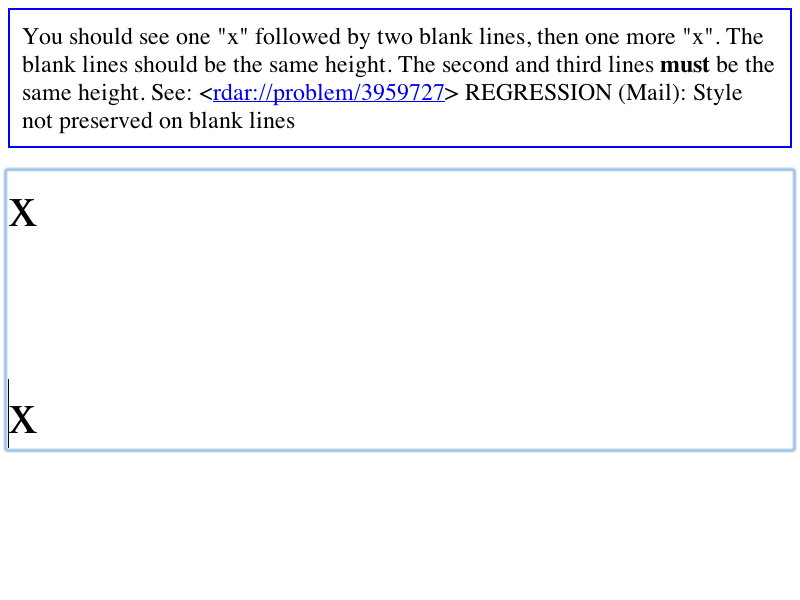
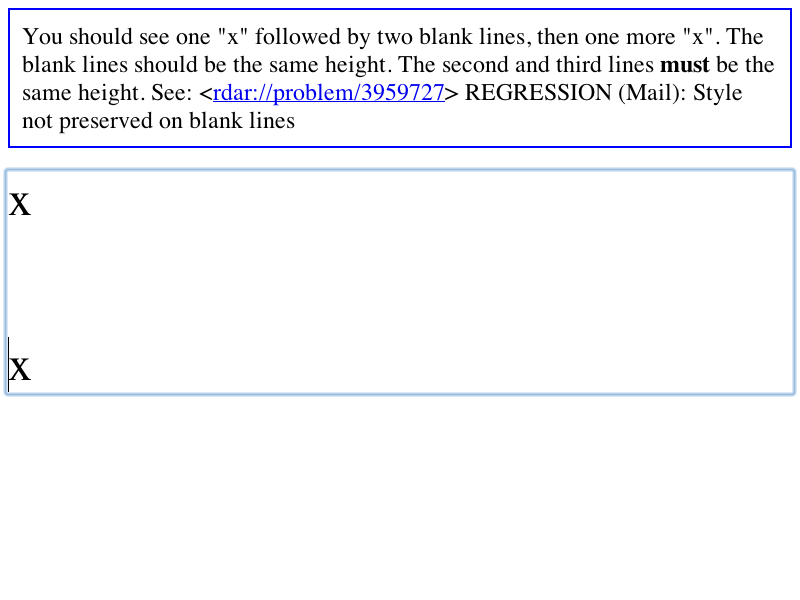
LayoutTests:
Reviewed by hyatt

        <rdar://problem/4875425>
        EBay, GMail, and GoogleDocs RTEs font size popups don't work

        Added to test changes:
        * editing/style/fontsize-1-expected.checksum: Added.
        * editing/style/fontsize-1-expected.png: Added.
        * editing/style/fontsize-1-expected.txt: Added.
        * editing/style/fontsize-1.html: Added.

        Removed use of "px" and "pt" values passed to
        execCommand("FontSize", ...) (other browsers don't
        support them):
        * editing/input/attributed-substring-from-range-lines.html-disabled:
        * editing/style/block-style-004-expected.checksum:
        * editing/style/block-style-004-expected.png:
        * editing/style/block-style-004-expected.txt:
        * editing/style/block-style-004.html:
        * editing/style/block-style-005-expected.checksum:
        * editing/style/block-style-005-expected.png:
        * editing/style/block-style-005-expected.txt:
        * editing/style/block-style-005.html:
        * editing/style/block-style-006-expected.checksum:
        * editing/style/block-style-006-expected.png:
        * editing/style/block-style-006-expected.txt:
        * editing/style/block-style-006.html:

WebCore:

        Reviewed by hyatt

        <rdar://problem/4875425>
        EBay, GMail, and GoogleDocs RTEs font size popups don't work

        Changed execCommand("FontSize", ...) to match the spec
        and the behavior of other browsers.  It expects a number,
[…]

Changed region(s): [[0.0, 0.57, 1.0, 0.78], [0.0, 0.3, 0.0625, 0.39]]

diff --git a/LayoutTests/editing/style/fontsize-1.html b/LayoutTests/editing/style/fontsize-1.html
@@ -1,0 +1,35 @@
+<p>This test execCommand("FontSize", ...).  You should see 'small' 'medium' and 'large' below in every increasing font sizes.</p>
+<div id="div" contenteditable="true"></div>
+<ul id="console"></ul>
+
+<script>
+function log(str) {
+    var li = document.createElement("li");
+    li.appendChild(document.createTextNode(str));
+    var console = document.getElementById("console");
+    console.appendChild(li);
+}
+
+var div = document.getElementById("div");
+var sel = window.getSelection();
+
+sel.setPosition(div, 0);
+
+if (document.execCommand("FontSize", false, "pasd"))
+    log("Failure: execCommand('FontSize', [Illegal value]) should fail.");
+
+if (!document.execCommand("FontSize", false, "2"))
+    log("Failure: execCommand('FontSize', [Legal value]) failed.");
+
+document.execCommand("InsertText", false, "small");    
+
+if (!document.execCommand("FontSize", false, "4"))
+    log("Failure: execCommand('FontSize', [Legal value]) failed.");
+
+document.execCommand("InsertText", false, "medium");
+
+if (!document.execCommand("FontSize", false, "6"))
+    log("Failure: execCommand('FontSize', [Legal value]) failed.");
+
+document.execCommand("InsertText", false, "large");
+</script>

diff --git a/LayoutTests/editing/style/block-style-006.html b/LayoutTests/editing/style/block-style-006.html
@@ -23,7 +23,7 @@ function editingTest() {
     typeCharacterCommand();
     for (i = 0; i < 3; i++)
         extendSelectionBackwardByLineCommand();
-    fontSizeCommand("60px");
+    fontSizeCommand("7");
     for (i = 0; i < 3; i++)
         moveSelectionForwardByLineCommand();
     moveSelectionBackwardByCharacterCommand();

diff --git a/LayoutTests/editing/style/block-style-004.html b/LayoutTests/editing/style/block-style-004.html
@@ -23,7 +23,7 @@ function editingTest() {
     typeCharacterCommand();
     for (i = 0; i < 3; i++)
         extendSelectionBackwardByLineCommand();
-    fontSizeCommand("60px");
+    fontSizeCommand("7");
     moveSelectionBackwardByCharacterCommand();
     moveSelectionForwardByLineCommand();
     insertParagraphCommand();

diff --git a/LayoutTests/editing/style/block-style-005.html b/LayoutTests/editing/style/block-style-005.html
@@ -23,7 +23,7 @@ function editingTest() {
     typeCharacterCommand();
     for (i = 0; i < 3; i++)
         extendSelectionBackwardByLineCommand();
-    fontSizeCommand("60px");
+    fontSizeCommand("7");
     for (i = 0; i < 3; i++)
         moveSelectionForwardByLineCommand();
     deleteCommand();

diff --git a/WebCore/html/HTMLFontElement.cpp b/WebCore/html/HTMLFontElement.cpp
@@ -102,28 +102,44 @@ bool HTMLFontElement::mapToEntry(const QualifiedName& attrName, MappedAttributeE
     return HTMLElement::mapToEntry(attrName, result);
 }
 
+bool HTMLFontElement::cssValueFromFontSizeNumber(const String& s, int& size)
+{
+    int num;
+    if (!parseFontSizeNumber(s, num))
+        return false;
+        
+    switch (num) {
+        case 2: 
+            size = CSS_VAL_SMALL; 
+            break;
+        case 0: // treat 0 the same as 3, because people expect it to be between -1 and +1
+        case 3: 
+            size = CSS_VAL_MEDIUM; 
+            break;
+        case 4: 
+            size = CSS_VAL_LARGE; 
+            break;
+        case 5: 
+            size = CSS_VAL_X_LARGE; 
+            break;
+        case 6: 
+            size = CSS_VAL_XX_LARGE; 
+            break;
+        default:
+            if (num > 6)
+                size = CSS_VAL__WEBKIT_XXX_LARGE;
+            else
+                size = CSS_VAL_X_SMALL;
+    }
+    return true;
+}
+
 void HTMLFontElement::parseMappedAttribute(MappedAttribute *attr)
 {
     if (attr->name() == sizeAttr) {
-        int num;
-        if (parseFontSizeNumber(attr->value(), num)) {
-            int size;
-            switch (num)
-            {
-            case 2: size = CSS_VAL_SMALL; break;
-            case 0: // treat 0 the same as 3, because people expect it to be between -1 and +1
-            case 3: size = CSS_VAL_MEDIUM; break;
-            case 4: size = CSS_VAL_LARGE; break;
-            case 5: size = CSS_VAL_X_LARGE; break;
-            case 6: size = CSS_VAL_XX_LARGE; break;
-            default:
-                if (num > 6)
-                    size = CSS_VAL__WEBKIT_XXX_LARGE;
-                else
-                    size = CSS_VAL_X_SMALL;
-            }
+        int size;
+        if (cssValueFromFontSizeNumber(attr->value(), size))
             addCSSProperty(attr, CSS_PROP_FONT_SIZE, size);
-        }
     } else if (attr->name() == colorAttr) {
         addCSSColor(attr, CSS_PROP_COLOR, attr->value());
     } else if (attr->name() == faceAttr) {

diff --git a/WebCore/editing/JSEditor.cpp b/WebCore/editing/JSEditor.cpp
@@ -34,6 +34,7 @@
 #include "EditorClient.h"
 #include "FormatBlockCommand.h"
 #include "Frame.h"
+#include "HTMLFontElement.h"
 #include "HTMLNames.h"
 #include "HTMLImageElement.h"
 #include "IndentOutdentCommand.h"
@@ -165,6 +166,14 @@ bool execStyleChange(Frame* frame, int propertyID, const char* propertyValue)
     return execStyleChange(frame, propertyID, String(propertyValue));
 }
 
+bool execStyleChange(Frame* frame, int propertyID, int propertyValue)
+{
+    RefPtr<CSSMutableStyleDeclaration> style = new CSSMutableStyleDeclaration;
+    style->setProperty(propertyID, propertyValue);
+    frame->editor()->applyStyle(style.get());
+    return true;
+}
+
 Frame::TriState stateStyle(Frame* frame, int propertyID, const char* desiredValue)
 {
     RefPtr<CSSMutableStyleDeclaration> style = new CSSMutableStyleDeclaration;
@@ -250,7 +259,11 @@ bool execFontName(Frame* frame, bool, const String& value)
 
 bool execFontSize(Frame* frame, bool, const String& value)
 {
-    return execStyleChange(frame, CSS_PROP_FONT_SIZE, value);
+    int size;
+    if (!HTMLFontElement::cssValueFromFontSizeNumber(value, size))
+        return false;
+        
+    return execStyleChange(frame, CSS_PROP_FONT_SIZE, size);
 }
 
 bool execFontSizeDelta(Frame* frame, bool, const String& value)

diff --git a/WebCore/html/HTMLFontElement.h b/WebCore/html/HTMLFontElement.h
@@ -50,6 +50,8 @@ public:
 
     String size() const;
     void setSize(const String&);
+    
+    static bool cssValueFromFontSizeNumber(const String&, int&);
 };
 
 } //namespace
